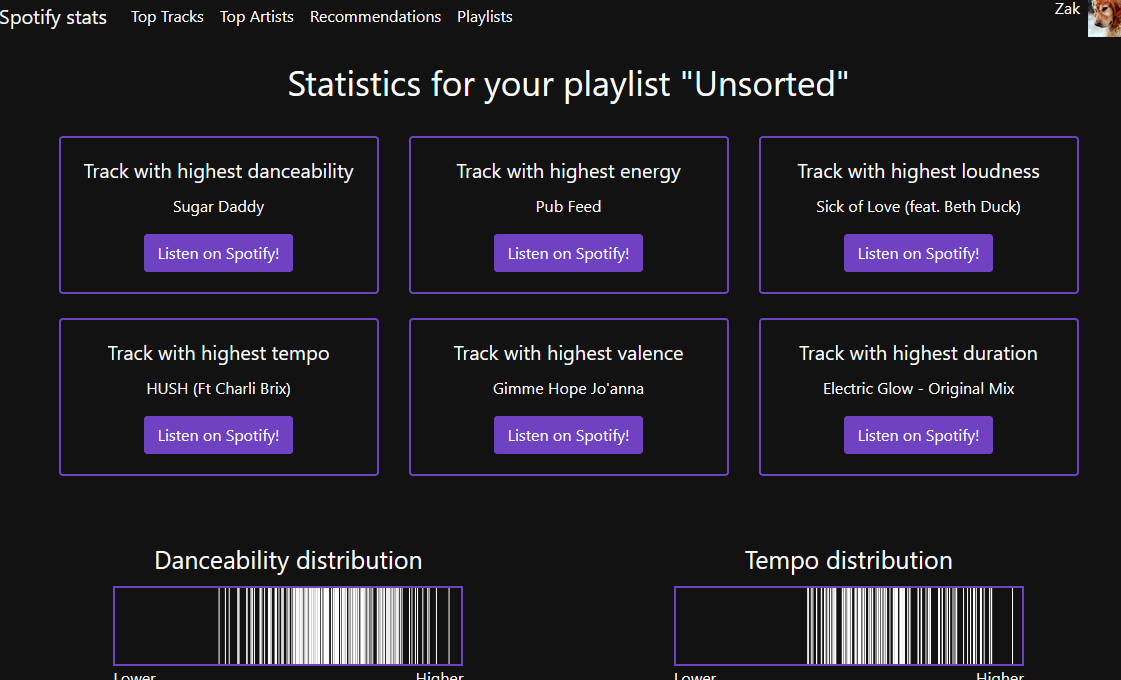
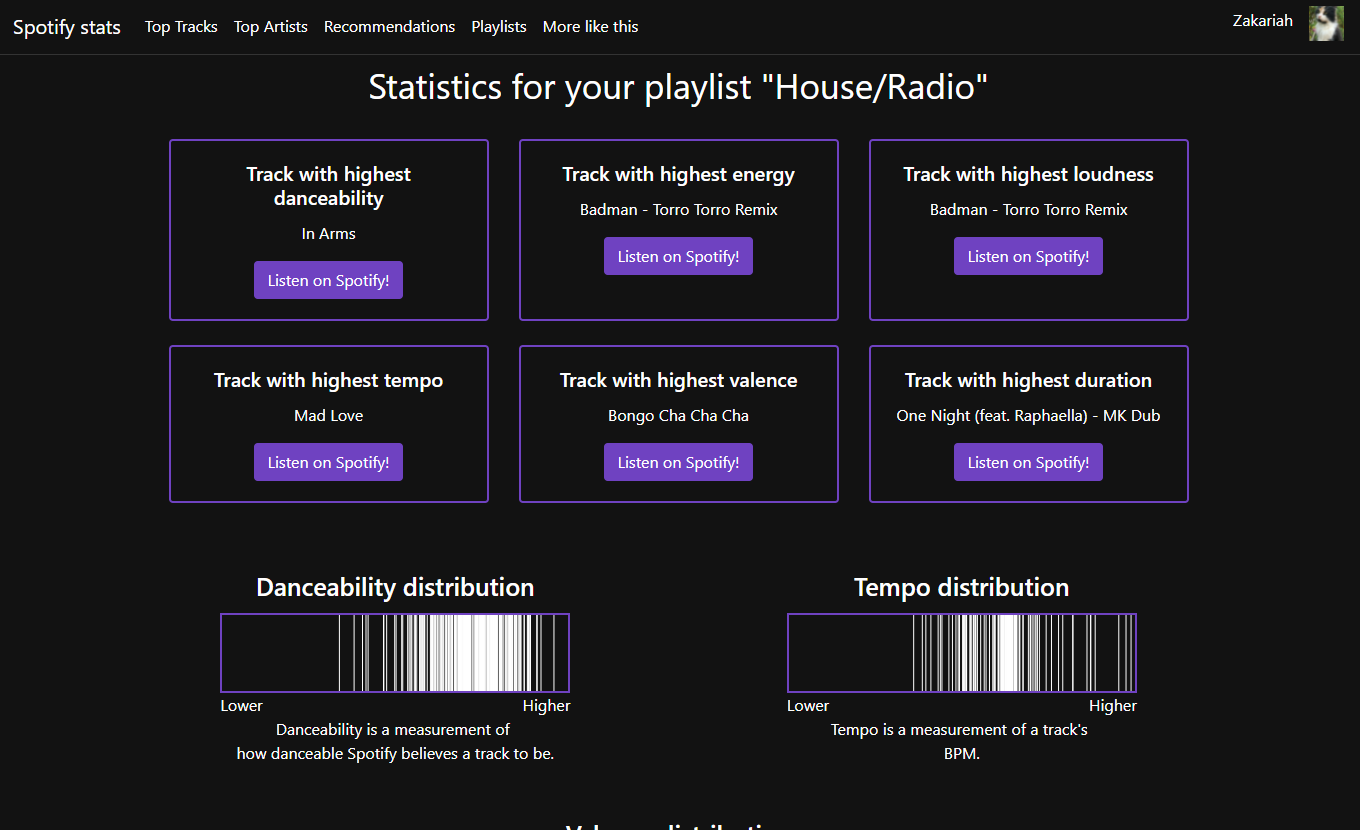
Update to nav and README
- updated nav slightly to look better
- updated README and associated images
- updated index pages images

diff --git a/public/css/styles.min.css b/public/css/styles.min.css
@@ -1,1 +1,1 @@
-body{background-color:#121212}body,html{height:100%;margin:0}.container-fluid{min-height:100%!important;margin-bottom:-50px}.indexSize {min-height:50%!important;}.fExtend,.footer{height:50px}.text-card{color:#fff!important}.card{border:none!important}.overlay{position:absolute;background:rgba(0,0,0,0);display:flex;justify-content:center;align-items:center;padding:0;height:100%;width:100%;text-align:center}.overlay:focus,.overlay:hover{background:rgba(0,0,0,.7)}.card-home{background-color:#121212}.extend-index{min-height:calc(100vh - 1px)}.plainItem,.plainitem:focus,.plainitem:hover{color:#fff!important}.adjusting-align{justify-content:flex-end!important}@media (max-width:676px){.adjusting-align{justify-content:center!important}}.itemName{color:transparent;text-align:center;font-size:30px;width:100%;height:100%;display:flex;justify-content:center;align-items:center;z-index:+1}.itemName:focus,.itemName:hover{color:rgba(255,255,255,.999)}.index{text-align:center}.nav-link,.navbar-brand{color:#fff!important}.nav-link:focus,.nav-link:hover{color:#8f6dd0!important}.navbar-brand:hover{color:#fff}.cardPurple{border:2px solid!important;border-color:#6f42c1!important}.header{text-align:center;color:#fff;font-size:60px}.playlistHeader{text-align:center;color:#fff;font-size:35px}.playlistTitle{font-size:25px}.playlistForm{max-width:50%;margin:auto}@media (max-width:500px){.header{font-size:40px}}@media (max-width:1400px){.playlistForm{max-width:60%}}@media (max-width:1150px){.playlistForm{max-width:70%}}@media (max-width:850px){.playlistForm{max-width:80%}}@media (max-width:650px){.playlistForm{max-width:90%}}.selectedNav{color:#8f6dd0!important}.userImage{width:50px;height:50px}.artistImage{max-height:320px;max-width:320px}.currentImage{max-height:120px!important;max-width:120px!important;}.currentTrackDetails{text-align:center;color:white;font-size:20px;}.extend{width:100%!important}.cardAdjust{height:auto;min-width:320px;max-width:320px}@media (max-width:1456px){.cardAdjust{min-width:300px;max-width:300px}.artistImage{max-height:300px;max-width:300px}}@media (max-width:1376px){.cardAdjust{min-width:280px;max-width:280px}.artistImage{max-height:280px;max-width:280px}}@media (max-width:1296px){.cardAdjust{min-width:260px;max-width:260px}.artistImage{max-height:260px;max-width:260px}}@media (max-width:1216px){.cardAdjust{min-width:240px;max-width:240px}.artistImage{max-height:240px;max-width:240px}}@media (max-width:856px){.cardAdjust{min-width:200px;max-width:200px}.artistImage{max-height:200px;max-width:200px}}@media (max-width:856px){.cardAdjust{min-width:180px;max-width:180px}.artistImage{max-height:180px;max-width:180px}}@media (max-width:456px){.cardAdjust{min-width:140px;max-width:140px}.artistImage{max-height:140px;max-width:140px}}@media (min-width:330px){.card{margin-right:20px!important;margin-left:20px!important}.deckSvg{margin-right:20px!important;margin-left:20px!important}}@media (min-width:330px){.card-deck{display:-ms-flexbox;display:flex;-ms-flex-flow:row wrap;flex-flow:row wrap;margin-right:-15px;margin-left:-15px}}.btn-primary{background-color:#6f42c1!important;border-color:#6f42c1!important}.btn-primary:active,.btn-primary:focus,.btn-primary:hover{background-color:#4c2c87!important;border-color:#4c2c87!important}.cardPlaylist{min-height:150px;max-height:190px;min-width:320px;max-width:320px;border:2px solid!important;border-color:#6f42c1!important;background-color:#121212;color:#fff;text-align:center;margin-right:50px!important;margin-left:50px!important}.playlistCardDeck{margin-left:150px!important;margin-right:150px!important}@media (max-width:1606px){.playlistCardDeck{margin-left:100px!important;margin-right:100px!important}}@media (max-width:1506px){.cardPlaylist{min-height:150px;max-height:190px;width:320px;margin-right:30px!important;margin-left:30px!important}}@media (max-width:1386px){.cardPlaylist{min-height:150px;max-height:190px;width:320px;margin-right:15px!important;margin-left:15px!important}}@media (max-width:1296px){.playlistCardDeck{margin-left:20px!important;margin-right:20px!important}}@media (max-width:1136px){.cardPlaylist{min-width:290px!important;min-height:150px;max-height:190px;width:300px}}@media (max-width:700px){.cardPlaylist{height:200px}}.cardSvg{height:200px;min-width:500px!important;background-color:#121212;color:#fff;text-align:center;margin-right:30px!important;margin-left:30px!important}.deckSvg{margin-right:300px!important;margin-left:300px!important}@media (max-width:1766px){.deckSvg{margin-right:200px!important;margin-left:200px!important}}@media (max-width:1566px){.deckSvg{margin-right:100px!important;margin-left:100px!important}}@media (max-width:1367px){.deckSvg{margin-right:30px!important;margin-left:30px!important}}@media (max-width:966px){.deckSvg{margin-right:30px!important;margin-left:30px!important}.cardSvg{height:200px;min-width:500px!important;margin-right:0!important;margin-left:0!important}}svg{border:2px solid!important;border-color:#6f42c1!important}rect{fill:#fff}.playlistFooter{min-height:86%!important}.homeFooter{min-height:89%!important}.leftA{float:left}.rightA{float:right}.alignDist{width:350px;margin:0 auto}.card-home:focus .overlay{background:rgba(0,0,0,.7)}.card-home:focus .plainitem{color:#fff!important}.card-home:focus .itemName{color:rgba(255,255,255,.999)}
+body{background-color:#121212}body,html{height:100%;margin:0}.container-fluid{min-height:100%!important;margin-bottom:-50px}.indexSize {min-height:50%!important;}.fExtend,.footer{height:50px}.text-card{color:#fff!important}.card{border:none!important}.overlay{position:absolute;background:rgba(0,0,0,0);display:flex;justify-content:center;align-items:center;padding:0;height:100%;width:100%;text-align:center}.overlay:focus,.overlay:hover{background:rgba(0,0,0,.7)}.card-home{background-color:#121212}.extend-index{min-height:calc(100vh - 1px)}.plainItem,.plainitem:focus,.plainitem:hover{color:#fff!important}.adjusting-align{justify-content:flex-end!important}@media (max-width:676px){.adjusting-align{justify-content:center!important}}.itemName{color:transparent;text-align:center;font-size:30px;width:100%;height:100%;display:flex;justify-content:center;align-items:center;z-index:+1}.itemName:focus,.itemName:hover{color:rgba(255,255,255,.999)}.index{text-align:center}.nav-link,.navbar-brand{color:#fff!important}.nav-link:focus,.nav-link:hover{color:#8f6dd0!important}.navbar-brand:hover{color:#fff}.cardPurple{border:2px solid!important;border-color:#6f42c1!important}.header{text-align:center;color:#fff;font-size:60px}.playlistHeader{text-align:center;color:#fff;font-size:35px}.playlistTitle{font-size:25px}.playlistForm{max-width:50%;margin:auto}@media (max-width:500px){.header{font-size:40px}}@media (max-width:1400px){.playlistForm{max-width:60%}}@media (max-width:1150px){.playlistForm{max-width:70%}}@media (max-width:850px){.playlistForm{max-width:80%}}@media (max-width:650px){.playlistForm{max-width:90%}}.selectedNav{color:#8f6dd0!important}.navbar-underline{border-bottom:1px solid#333333;}.navbarUserName{padding:.0rem 1rem !important;}.userImage{width:35px;height:35px}.artistImage{max-height:320px;max-width:320px}.currentImage{max-height:90px!important;max-width:90px!important;padding-right: 10px;}.currentTrackDetails{text-align:center;color:white;font-size:20px;}.extend{width:100%!important}.cardAdjust{height:auto;min-width:320px;max-width:320px}@media (max-width:1456px){.cardAdjust{min-width:300px;max-width:300px}.artistImage{max-height:300px;max-width:300px}}@media (max-width:1376px){.cardAdjust{min-width:280px;max-width:280px}.artistImage{max-height:280px;max-width:280px}}@media (max-width:1296px){.cardAdjust{min-width:260px;max-width:260px}.artistImage{max-height:260px;max-width:260px}}@media (max-width:1216px){.cardAdjust{min-width:240px;max-width:240px}.artistImage{max-height:240px;max-width:240px}}@media (max-width:856px){.cardAdjust{min-width:200px;max-width:200px}.artistImage{max-height:200px;max-width:200px}}@media (max-width:856px){.cardAdjust{min-width:180px;max-width:180px}.artistImage{max-height:180px;max-width:180px}}@media (max-width:456px){.cardAdjust{min-width:140px;max-width:140px}.artistImage{max-height:140px;max-width:140px}}@media (min-width:330px){.card{margin-right:20px!important;margin-left:20px!important}.deckSvg{margin-right:20px!important;margin-left:20px!important}}@media (min-width:330px){.card-deck{display:-ms-flexbox;display:flex;-ms-flex-flow:row wrap;flex-flow:row wrap;margin-right:-15px;margin-left:-15px}}.btn-primary{background-color:#6f42c1!important;border-color:#6f42c1!important}.btn-primary:active,.btn-primary:focus,.btn-primary:hover{background-color:#4c2c87!important;border-color:#4c2c87!important}.cardPlaylist{min-height:150px;max-height:190px;min-width:320px;max-width:320px;border:2px solid!important;border-color:#6f42c1!important;background-color:#121212;color:#fff;text-align:center;margin-right:50px!important;margin-left:50px!important}.playlistCardDeck{margin-left:150px!important;margin-right:150px!important}@media (max-width:1606px){.playlistCardDeck{margin-left:100px!important;margin-right:100px!important}}@media (max-width:1506px){.cardPlaylist{min-height:150px;max-height:190px;width:320px;margin-right:30px!important;margin-left:30px!important}}@media (max-width:1386px){.cardPlaylist{min-height:150px;max-height:190px;width:320px;margin-right:15px!important;margin-left:15px!important}}@media (max-width:1296px){.playlistCardDeck{margin-left:20px!important;margin-right:20px!important}}@media (max-width:1136px){.cardPlaylist{min-width:290px!important;min-height:150px;max-height:190px;width:300px}}@media (max-width:700px){.cardPlaylist{height:200px}}.cardSvg{height:200px;min-width:500px!important;background-color:#121212;color:#fff;text-align:center;margin-right:30px!important;margin-left:30px!important}.deckSvg{margin-right:300px!important;margin-left:300px!important}@media (max-width:1766px){.deckSvg{margin-right:200px!important;margin-left:200px!important}}@media (max-width:1566px){.deckSvg{margin-right:100px!important;margin-left:100px!important}}@media (max-width:1367px){.deckSvg{margin-right:30px!important;margin-left:30px!important}}@media (max-width:966px){.deckSvg{margin-right:30px!important;margin-left:30px!important}.cardSvg{height:200px;min-width:500px!important;margin-right:0!important;margin-left:0!important}}svg{border:2px solid!important;border-color:#6f42c1!important}rect{fill:#fff}.playlistFooter{min-height:86%!important}.homeFooter{min-height:89%!important}.leftA{float:left}.rightA{float:right}.alignDist{width:350px;margin:0 auto}.card-home:focus .overlay{background:rgba(0,0,0,.7)}.card-home:focus .plainitem{color:#fff!important}.card-home:focus .itemName{color:rgba(255,255,255,.999)}

diff --git a/public/css/styles.css b/public/css/styles.css
@@ -159,20 +159,29 @@ html, body {
     color:#8F6DD0 !important;
 }
 
+.navbar-underline {
+    border-bottom: 1px solid #333333;
+}
+
+.navbarUserName {
+    padding: .0rem 1rem !important;
+}
+
 .userImage {
-    width:50px;
-    height: 50px;
+    width:35px;
+    height:35px;
 
 }
 
 .artistImage {
-    max-height: 320px ;
-    max-width: 320px ;
+    max-height: 320px;
+    max-width: 320px;
 }
 
 .currentImage {
-    max-height: 120px ;
-    max-width: 120px ;
+    max-height: 90px;
+    max-width: 90px;
+    padding-right: 10px;
 }
 
 .currentTrackDetails {

diff --git a/resources/views/index.blade.php b/resources/views/index.blade.php
@@ -18,7 +18,7 @@
             <div class="row">
                 <div class="col-md-4 col-sm-6">
                     <div class="card mb-4 box-shadow card-home">
-                        <img class="card-img-top cardPurple" alt="example image of the top tracks page" style="height: auto; width: 100%; display: block;" src="{{asset('images/toptracks.png')}}">
+                        <img class="card-img-top cardPurple" alt="example image of the top tracks page" style="height: auto; width: 100%; display: block;" src="{{asset('images/toptracks.jpg')}}">
                         <div class="card-body">
                             <p class="card-text lead text-card">View your top 50 tracks/artists on Spotify from the last 4 weeks, 6 months or all time!</p>
                             <div class="d-flex justify-content-between align-items-center">
@@ -29,9 +29,9 @@
 
                 <div class="col-md-4 col-sm-6">
                     <div class="card mb-4 box-shadow card-home">
-                        <img class="card-img-top cardPurple" alt="example image of the recommendations page" style="height: auto; width: 100%; display: block;" src="{{asset('images/recommendations.png')}}" >
+                        <img class="card-img-top cardPurple" alt="example image of the recommendations page" style="height: auto; width: 100%; display: block;" src="{{asset('images/current-recommendations.jpg')}}" >
                         <div class="card-body">
-                            <p class="card-text lead text-card">View 50 recommended tracks based upon your top tracks and artists.</p>
+                            <p class="card-text lead text-card">View recommended tracks based upon your top tracks and artists or based upon the song you are listening to right now!.</p>
                             <div class="d-flex justify-content-between align-items-center">
                             </div>
                         </div>

diff --git a/resources/views/components/nav.blade.php b/resources/views/components/nav.blade.php
@@ -1,4 +1,4 @@
-<nav class="navbar navbar-expand-md navbar-dark mb-1">
+<nav class="navbar navbar-expand-md navbar-dark navbar-underline mb-1">
   <a class="plainItem navbar-brand" >Spotify stats</a>
   <button class="navbar-toggler" type="button" data-toggle="collapse" data-target="#navbarNavDropdown" aria-controls="navbarNavDropdown" aria-expanded="false" aria-label="Toggle navigation">
     <span class="navbar-toggler-icon"></span>
@@ -25,7 +25,7 @@
   <div class="collapse navbar-collapse justify-content-end" id="navbarRight">
   <ul class="navbar-nav">
     <li class="nav-item">
-      <p class="plainItem nav-link"><?php echo session('username'); ?></p>
+      <p class="plainItem navbarUserName nav-link"><?php echo session('username'); ?></p>
     </li>
     <li class="nav-item">
       <img class="userImage" src="{{ session('userImage') ?? asset('images/noimage.png') }}" alt="userImage">

diff --git a/README.md b/README.md
@@ -1,6 +1,21 @@
-# Spotify stats
+## Spotify stats
 
-Spotify stats is a site that will show you your top tracks and artists as well as provide reccomendations for new tracks and provide playlist statistics.
+Spotify stats is a site that will show you your top tracks and artists as well as provide recomendations for new tracks and provide playlist statistics.
+
+You can view your top artists and tracks that you have listened to on Spotify within 3 time periods, 4 weeks, 6 months and all time. You may also get recommended tracks based upon said top artists and tracks or alternatively by using the current track you are listening to on Spotify. You may finally view statistics about your owned/followed playlists.
+
+## Set up
+This project is built using laravel and so to install and use it you will need Composer installed on your server/PC.
+* [Laravel](https://laravel.com/) 
+* [Composer](https://getcomposer.org/) 
+
+Move this project folder to your webserver/XAMPP web root (XAMPP/htdocs or /var/www) and simply cd/to/project/directory and run 
+
+```
+composer install
+```
+
+Once the dependencies are installed you will need to edit the .env file with your spotify developer account details.
 
 ## Screenshots
 
@@ -8,16 +23,19 @@ Spotify stats is a site that will show you your top tracks and artists as well a
 ![](public/images/readme-image.png)
 
 #### Top Tracks page
-![](public/images/toptracks.png)
+![](public/images/toptracks.jpg)
 
 #### Top Artists page
-![](public/images/topartists.png)
+![](public/images/topartists.jpg)
 
 #### Recommendations page
-![](public/images/recommendations.png)
+![](public/images/recommendations.jpg)
 
 #### Statistics page
 ![](public/images/playlists.png)
+
+#### Track recommendations page
+![](public/images/current-recommendations.jpg)
 
 #### Mobile view
 The mobile view has the content that is usually displayed ON the art, instead, displayed below it since hovering on mobile devices is difficult.
